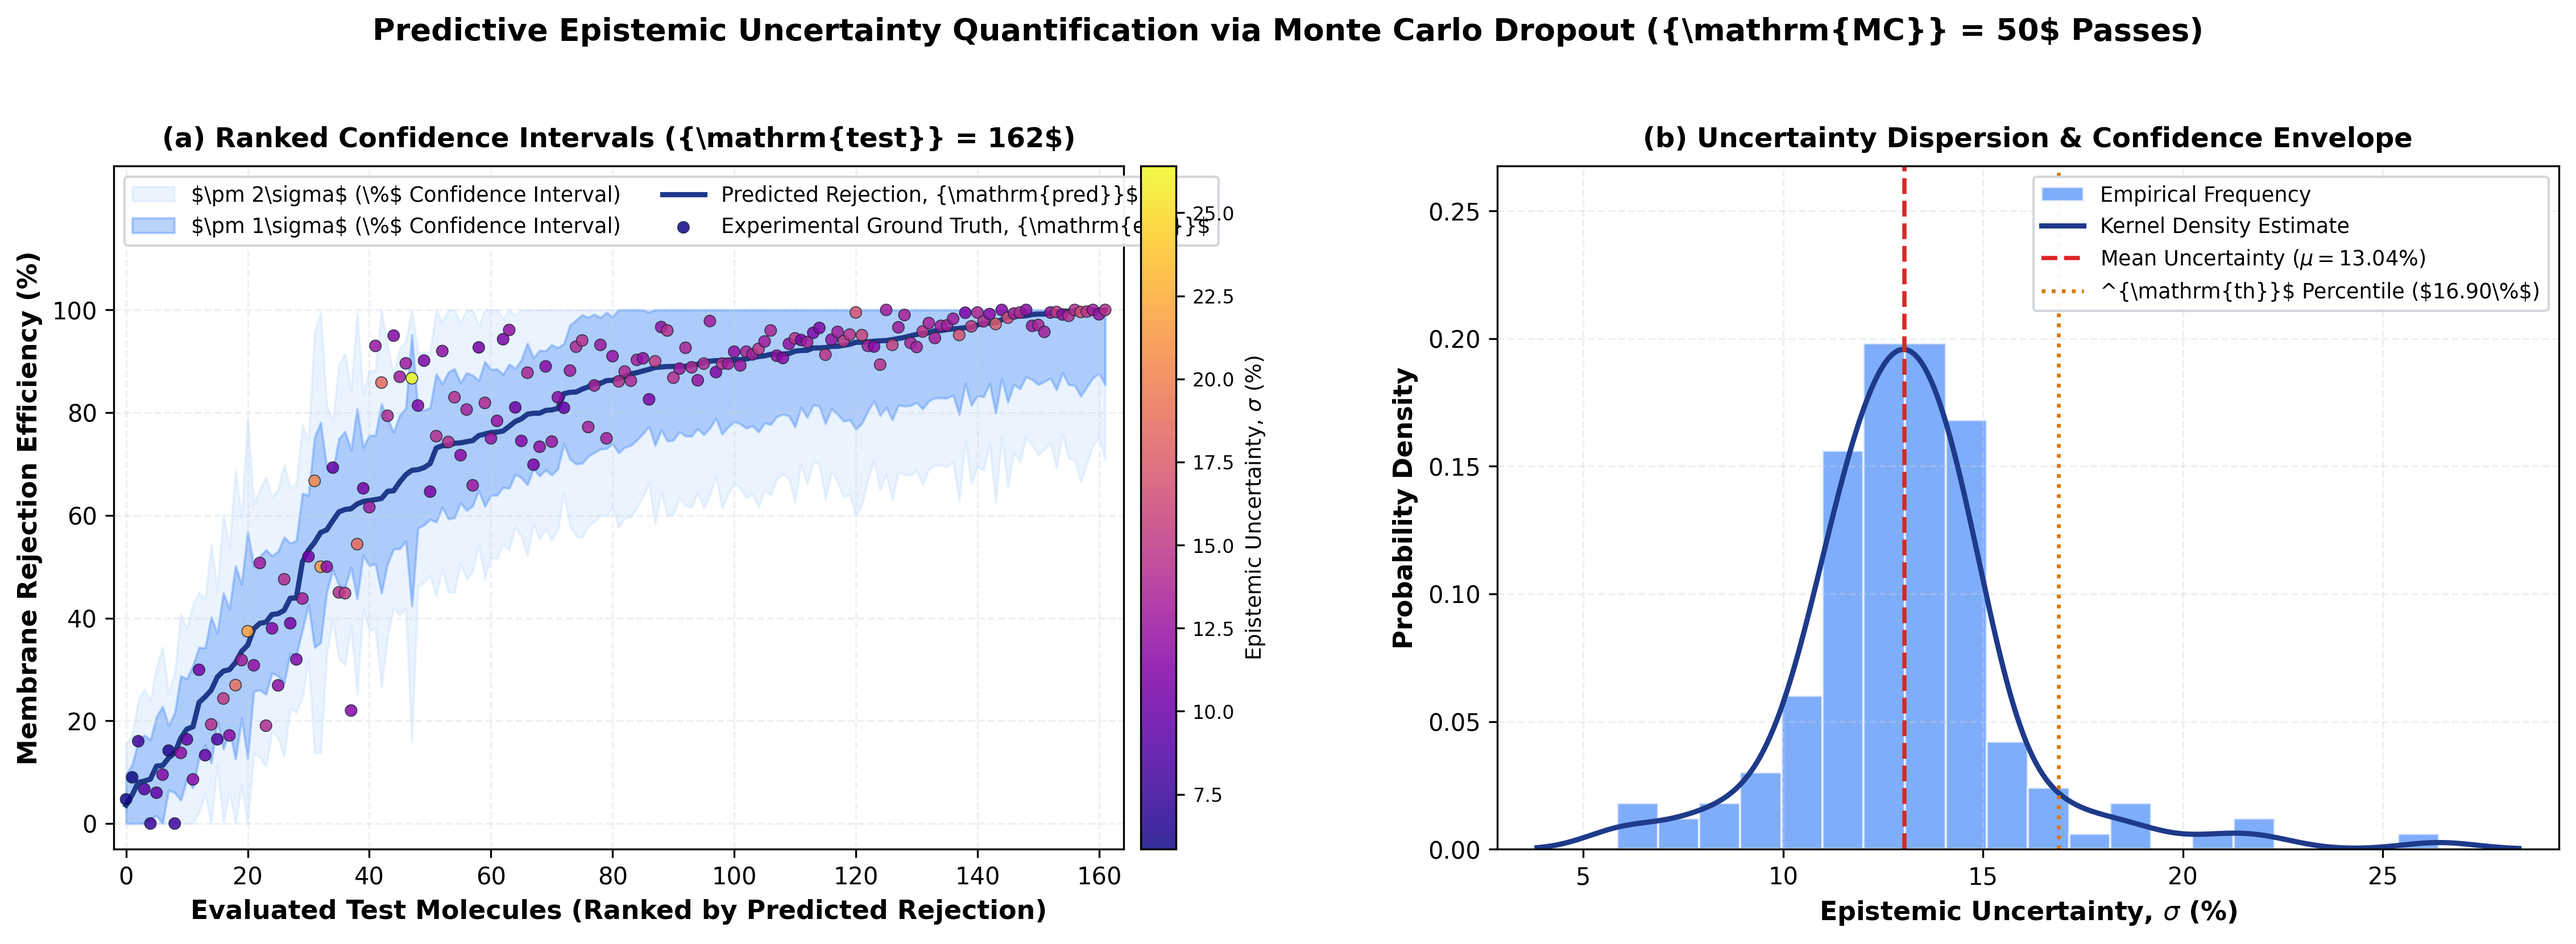
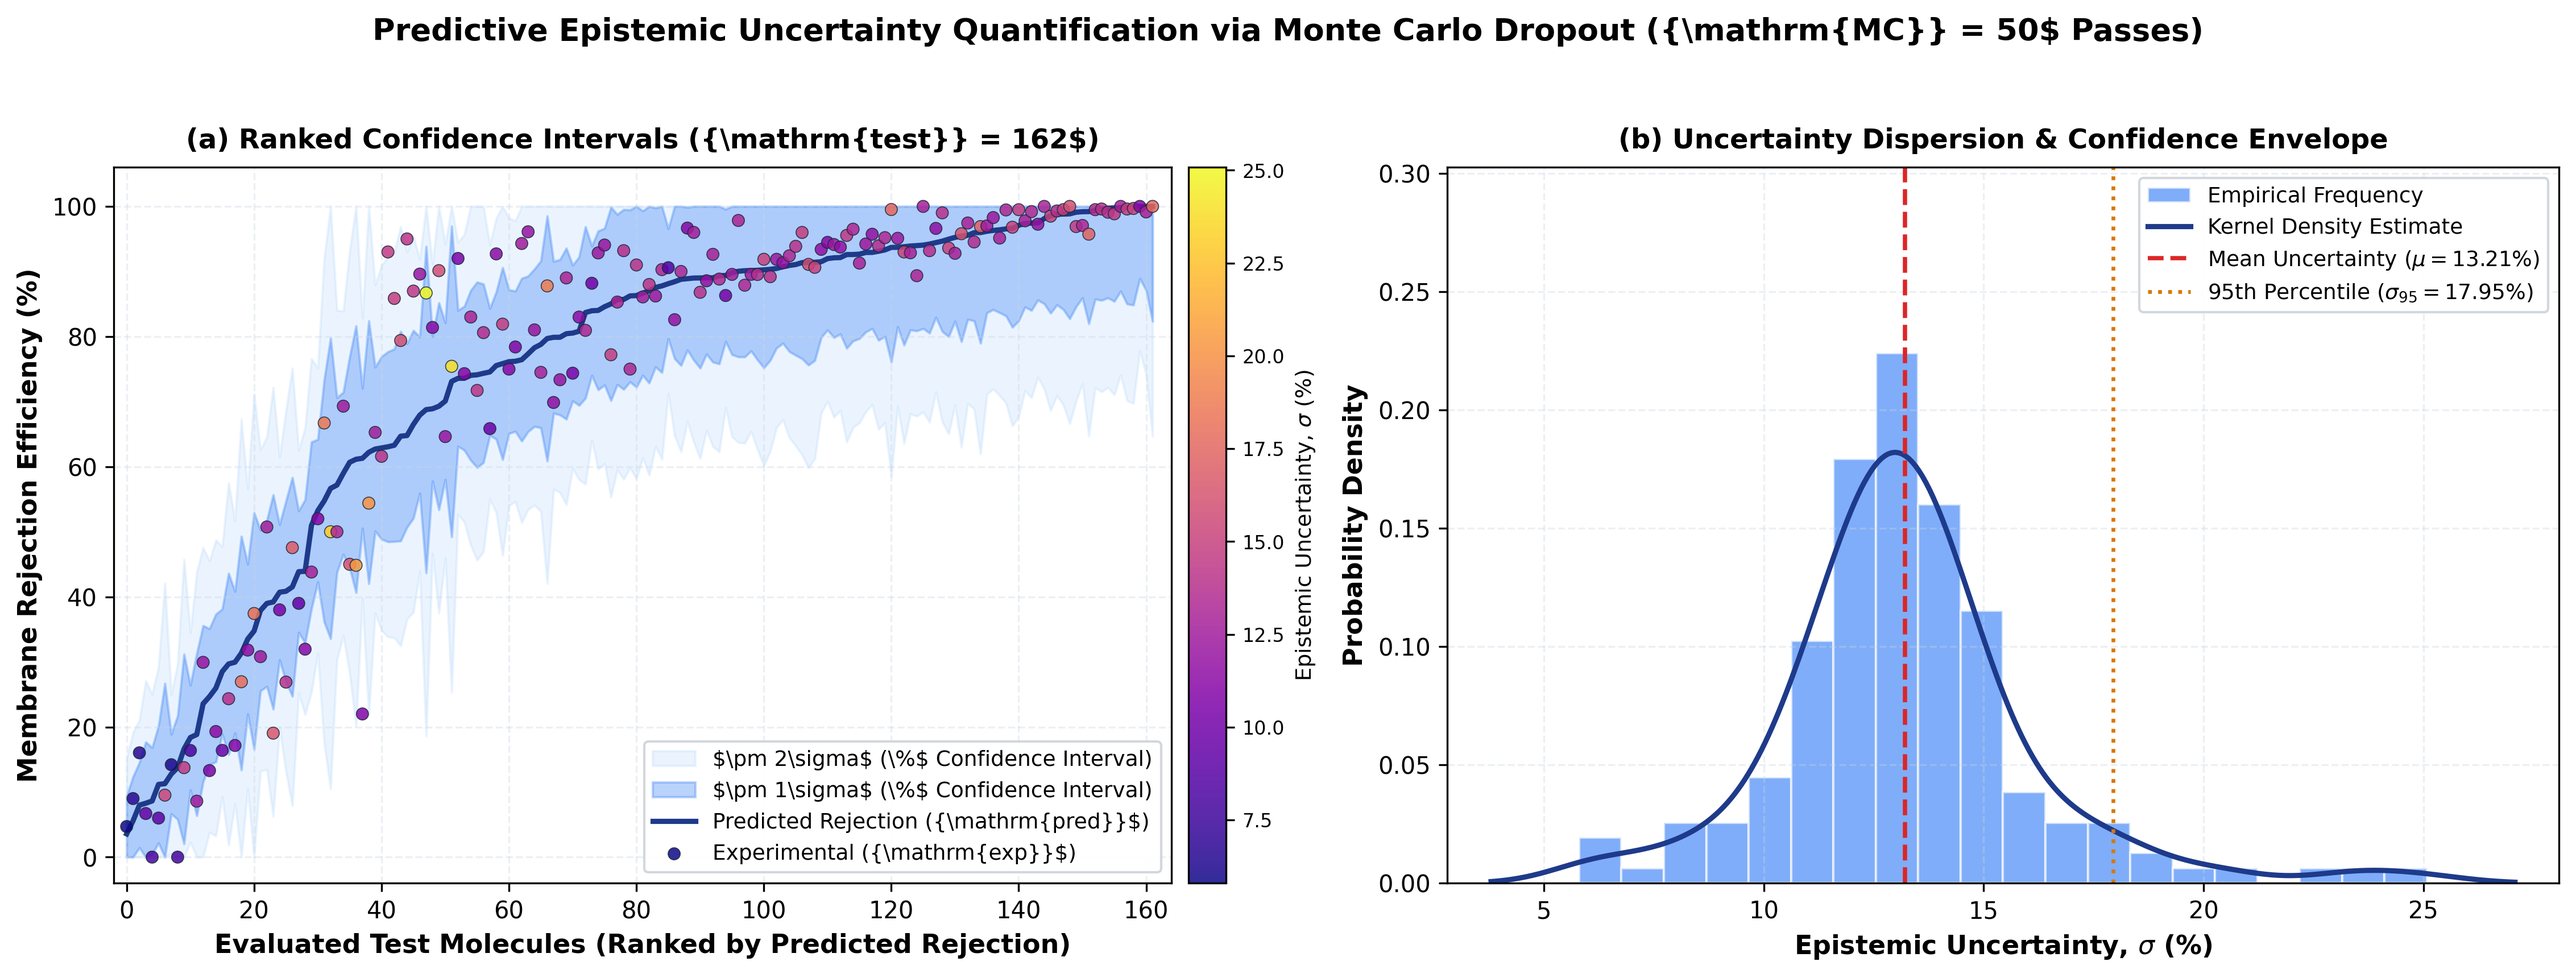
fix(fig7): Position legend in empty lower-right quadrant with clean mathtext strings

diff --git a/src/generate_paper_figures.py b/src/generate_paper_figures.py
@@ -642,7 +642,7 @@ def generate_figure7(inf):
     ss  = gt_stds[idx]
     st  = y_true[idx]
 
-    fig, (ax1, ax2) = plt.subplots(1, 2, figsize=(15.2, 5.6), dpi=DPI)
+    fig, (ax1, ax2) = plt.subplots(1, 2, figsize=(15.2, 5.8), dpi=DPI)
     fig.suptitle(r"Predictive Epistemic Uncertainty Quantification via Monte Carlo Dropout ($N_{\mathrm{MC}} = 50$ Passes)",
                  fontsize=13, fontweight='bold', y=0.98)
 
@@ -651,25 +651,27 @@ def generate_figure7(inf):
                      alpha=0.18, color='#93C5FD', label=r'$\pm 2\sigma$ ($95\%$ Confidence Interval)')
     ax1.fill_between(sx, np.clip(sp - ss, 0, 100), np.clip(sp + ss, 0, 100),
                      alpha=0.35, color='#3B82F6', label=r'$\pm 1\sigma$ ($68\%$ Confidence Interval)')
-    ax1.plot(sx, sp, color='#1E3A8A', lw=2.2, label=r'Predicted Rejection, $R_{\mathrm{pred}}$', zorder=4)
+    ax1.plot(sx, sp, color='#1E3A8A', lw=2.2, label=r'Predicted Rejection ($R_{\mathrm{pred}}$)', zorder=4)
 
-    sc = ax1.scatter(sx, st, c=ss, cmap='plasma', s=24, alpha=0.85,
-                     edgecolors='#1E293B', linewidths=0.4, zorder=5, label=r'Experimental, $R_{\mathrm{exp}}$')
+    sc = ax1.scatter(sx, st, c=ss, cmap='plasma', s=26, alpha=0.85,
+                     edgecolors='#1E293B', linewidths=0.4, zorder=5, label=r'Experimental ($R_{\mathrm{exp}}$)')
 
     ax1.set_xlim(-2, len(sx) + 2)
-    ax1.set_ylim(-5, 128)
+    ax1.set_ylim(-4, 106)
     ax1.set_yticks([0, 20, 40, 60, 80, 100])
     ax1.set_xlabel(r"Evaluated Test Molecules (Ranked by Predicted Rejection)", fontsize=11.0, fontweight='bold')
     ax1.set_ylabel(r"Membrane Rejection Efficiency (%)", fontsize=11.0, fontweight='bold')
     ax1.set_title(r"(a) Ranked Confidence Intervals ($N_{\mathrm{test}} = 162$)", fontsize=11.5, fontweight='bold', pad=8)
-    ax1.legend(fontsize=8.8, loc='upper left', ncol=2, framealpha=0.95, edgecolor='#D1D5DB')
+
+    # Lower right quadrant is completely clear of all data points
+    ax1.legend(fontsize=9.0, loc='lower right', framealpha=0.95, edgecolor='#D1D5DB')
     ax1.grid(True, linestyle='--', alpha=0.35, color='#CBD5E1')
 
     # Colorbar on Panel A for point uncertainty
     divider = make_axes_locatable(ax1)
     cax = divider.append_axes("right", size="3.5%", pad=0.10)
     cb = fig.colorbar(sc, cax=cax)
-    cb.set_label(r'Epistemic Uncertainty, $\sigma$ (%)', fontsize=9.0)
+    cb.set_label(r'Epistemic Uncertainty, $\sigma$ (%)', fontsize=9.2)
     cb.ax.tick_params(labelsize=8.0)
 
     # ── Panel B: Histogram & Density Distribution ──
@@ -681,12 +683,12 @@ def generate_figure7(inf):
     x_kde = np.linspace(min(gt_stds) - 2, max(gt_stds) + 2, 300)
     ax2.plot(x_kde, kde(x_kde), color='#1E3A8A', lw=2.2, label=r'Kernel Density Estimate')
 
-    mean_s = gt_stds.mean()
-    p95_s  = np.percentile(gt_stds, 95)
+    mean_s = float(gt_stds.mean())
+    p95_s  = float(np.percentile(gt_stds, 95))
     ax2.axvline(mean_s, color='#DC2626', lw=1.8, ls='--',
-                label=r'Mean Uncertainty ($\mu = ' f'{mean_s:.2f}\\%$)')
+                label=rf"Mean Uncertainty ($\mu = {mean_s:.2f}\%$)")
     ax2.axvline(p95_s, color='#D97706', lw=1.6, ls=':',
-                label=r'$95^{\mathrm{th}}$ Percentile ($' f'{p95_s:.2f}\\%$)')
+                label=rf"95th Percentile ($\sigma_{{95}} = {p95_s:.2f}\%$)")
 
     max_dens = max(kde(x_kde).max(), counts.max())
     ax2.set_ylim(0, max_dens * 1.35)
@@ -694,7 +696,7 @@ def generate_figure7(inf):
     ax2.set_xlabel(r"Epistemic Uncertainty, $\sigma$ (%)", fontsize=11.0, fontweight='bold')
     ax2.set_ylabel(r"Probability Density", fontsize=11.0, fontweight='bold')
     ax2.set_title(r"(b) Uncertainty Dispersion & Confidence Envelope", fontsize=11.5, fontweight='bold', pad=8)
-    ax2.legend(fontsize=8.8, loc='upper right', framealpha=0.95, edgecolor='#D1D5DB')
+    ax2.legend(fontsize=9.0, loc='upper right', framealpha=0.95, edgecolor='#D1D5DB')
     ax2.grid(True, linestyle='--', alpha=0.35, color='#CBD5E1')
 
     plt.tight_layout(rect=[0, 0, 1, 0.95])
